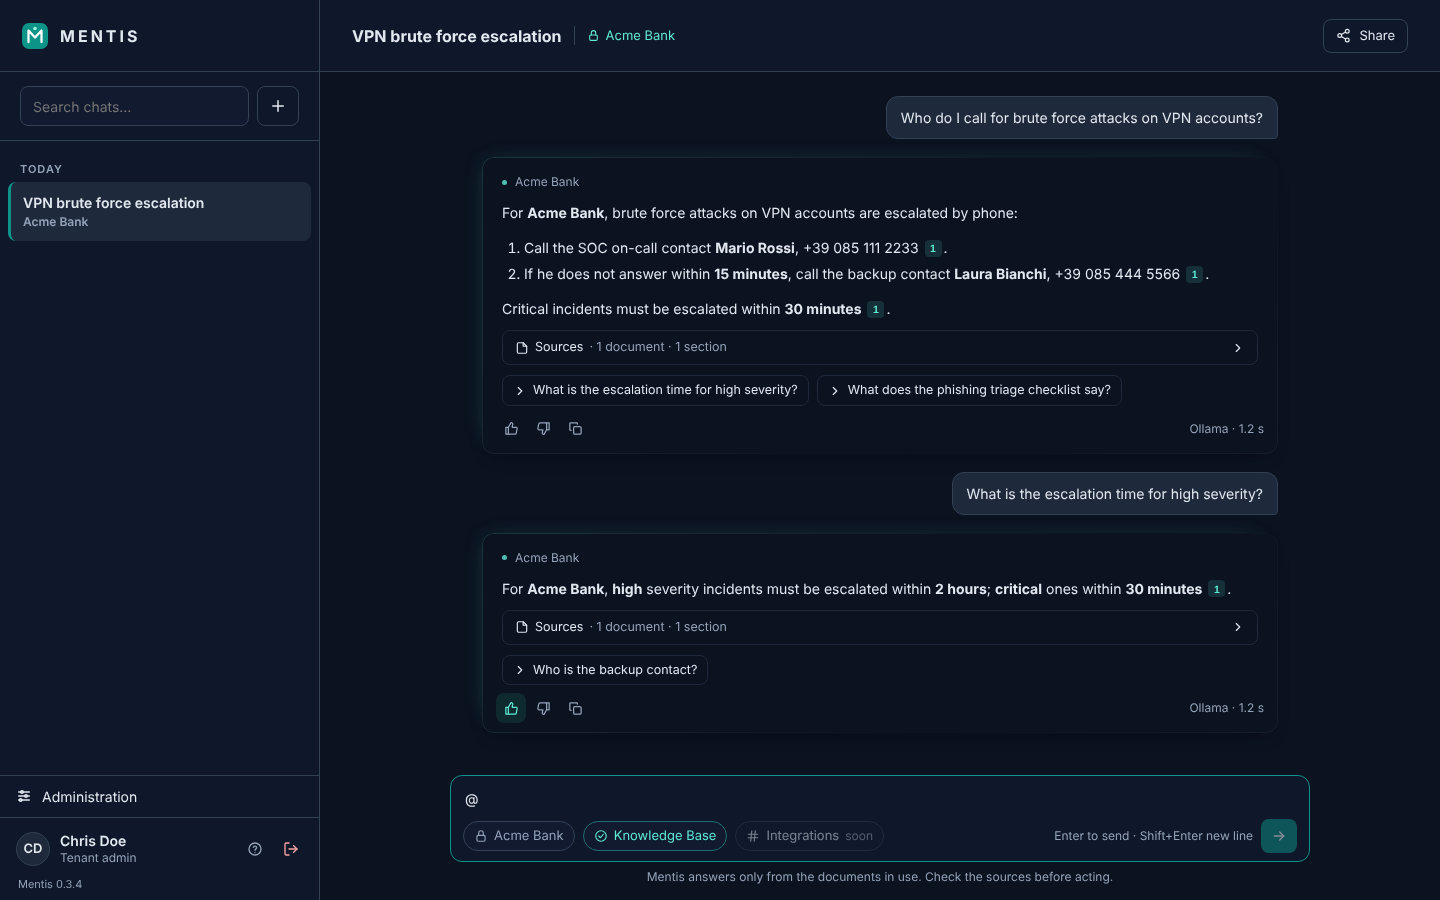
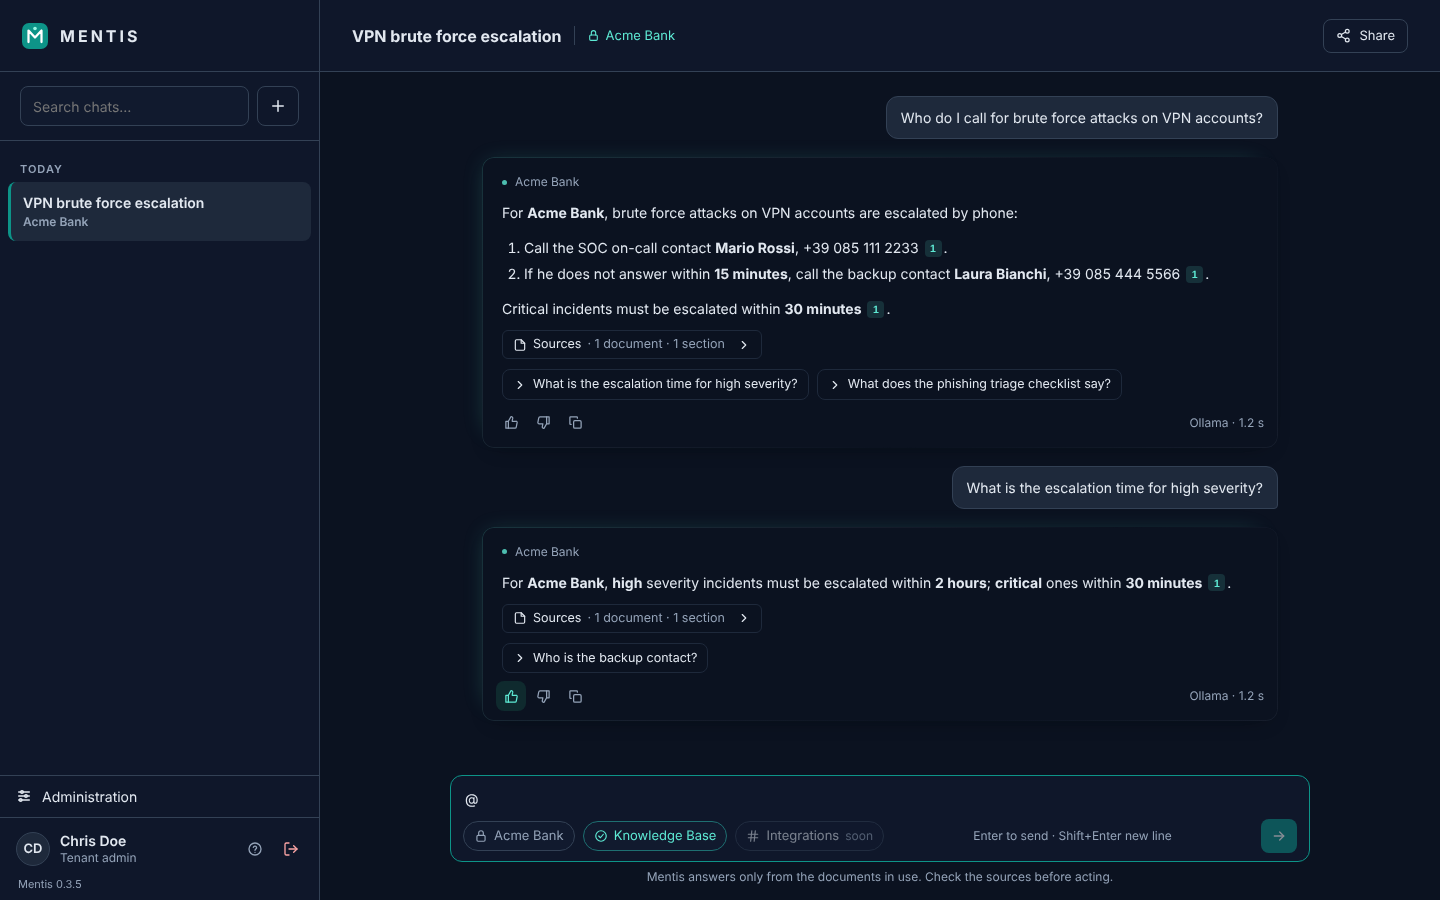
Sources: keep the full-height panel on the right; the Sources line under an answer becomes a small button
Claude-Session: https://claude.ai/code/session_01XxMwfZow8Asn8GhBh79ebo

diff --git a/frontend/src/pages/chat/chat.css b/frontend/src/pages/chat/chat.css
@@ -54,7 +54,7 @@
 .answer-error { display: flex; align-items: center; gap: 10px; border: 1px solid var(--danger); color: var(--danger); border-radius: 8px; padding: 10px 12px; }
 
 .sources { display: flex; flex-direction: column; gap: 6px; }
-.sources-toggle { display: flex; align-items: center; gap: 6px; width: 100%; padding: 7px 12px; border: 1px solid var(--border-soft); border-radius: 8px; background: transparent; color: var(--text); font: inherit; font-size: 12.5px; cursor: pointer; text-align: left; }
+.sources-toggle { display: inline-flex; align-self: flex-start; align-items: center; gap: 6px; width: auto; max-width: 100%; padding: 4px 10px; border: 1px solid var(--border-soft); border-radius: 6px; background: transparent; color: var(--text); font: inherit; font-size: 12.5px; cursor: pointer; text-align: left; }
 .sources-toggle:hover { background: var(--raised); }
 .source-doc-block { border: 1px solid var(--border-soft); border-radius: 8px; padding: 6px 4px 4px; }
 .source-doc-name { display: flex; align-items: center; flex-wrap: wrap; gap: 6px; padding: 0 6px 4px; font-size: 12.5px; }
@@ -135,19 +135,19 @@
 
 /* Sources panel on the right of the chat (reference viewer) */
 .sources-toggle.active { border-color: color-mix(in srgb, var(--accent) 55%, var(--border)); background: var(--raised); }
-.sources-panel { flex: 0 0 380px; align-self: flex-start; max-height: calc(100% - 32px); margin: 16px 16px 16px 0; display: flex; flex-direction: column; min-width: 0;
-  background: var(--surface); border: 1px solid var(--border); border-radius: 12px; box-shadow: 0 12px 32px -16px rgba(0, 0, 0, 0.5); overflow: hidden; }
-.sources-panel-head { display: flex; align-items: center; gap: 10px; padding: 0 8px 0 16px; height: 48px; box-sizing: border-box;
-  border-bottom: 1px solid var(--border-soft); flex: 0 0 auto; }
-.sources-panel-body { overflow-y: auto; padding: 8px 8px 10px; display: flex; flex-direction: column; gap: 4px; }
-.sources-panel .source-doc-block { border: 0; padding: 4px 0 2px; }
-.sources-panel .source-doc-block + .source-doc-block { border-top: 1px solid var(--border-soft); padding-top: 8px; }
-.sources-panel .source-doc-name { padding: 2px 8px 4px; font-size: 13px; }
-.sources-panel .source-row { font-size: 13px; padding: 7px 8px; }
+.sources-panel { flex: 0 0 min(440px, 38vw); height: 100%; display: flex; flex-direction: column; min-width: 0;
+  background: var(--surface); border-left: 1px solid var(--border); }
+.sources-panel-head { display: flex; align-items: center; gap: 10px; padding: 0 16px 0 20px; height: var(--head-h); box-sizing: border-box;
+  border-bottom: 1px solid var(--border); flex: 0 0 auto; }
+.sources-panel-body { flex: 1; overflow-y: auto; padding: 16px; display: flex; flex-direction: column; gap: 12px; }
+.sources-panel .source-doc-block { padding: 8px 6px 6px; }
+.sources-panel .source-doc-name { padding: 2px 8px 8px; font-size: 13px; }
+.sources-panel .source-row { font-size: 13px; padding: 8px; }
 .sources-panel .source-section { flex: 1; }
-.sources-panel .source-text { padding: 2px 12px 10px 30px; font-size: 13px; line-height: 1.6; color: var(--text); }
+.sources-panel .source-text { padding: 4px 12px 12px 32px; font-size: 13px; line-height: 1.6; color: var(--text); }
 @media (max-width: 900px) {
-  .sources-panel { position: fixed; inset: 0; z-index: 60; flex: none; width: 100%; max-height: none; margin: 0; border: 0; border-radius: 0; }
+  .sources-panel { position: fixed; inset: 0; z-index: 60; flex: none; width: 100%; border-left: 0; }
   .sources-panel-head { height: 56px; }
   .answer-card { padding: 14px 14px 8px; }
 }
+.composer-send { margin-left: auto; }

diff --git a/frontend/src/pages/chat/Composer.tsx b/frontend/src/pages/chat/Composer.tsx
@@ -122,7 +122,7 @@ export function Composer({ scopes, scope, locked, disabled, disabledReason, onSc
             <Icon name="hash" size={14} />Integrations<span className="muted small">soon</span>
           </button>
           <span className="spacer muted small composer-hint">Enter to send · Shift+Enter new line</span>
-          <button type="button" className="btn btn-primary btn-sm" aria-label="Send" disabled={disabled || !text.replace(AT, "$1").trim()} onClick={send}>
+          <button type="button" className="btn btn-primary btn-sm composer-send" aria-label="Send" disabled={disabled || !text.replace(AT, "$1").trim()} onClick={send}>
             <Icon name="send" />
           </button>
         </div>

diff --git a/frontend/src/help/analyst/02-chat.md b/frontend/src/help/analyst/02-chat.md
@@ -17,8 +17,8 @@ Next to the customer, the **Knowledge Base** chip is on by default (✓). To ans
 ## Read the answer
 
 - Each answer sits in a light frame. The small line above it says **which customer** it refers to. With All customers, an answer covering several customers names each one.
-- Every statement ends with a number like **1**: click it to open the **Sources** card on the right, on that passage.
-- The **Sources** bar under the answer says how many documents and sections were used; click it to open the card. It lists each document (with its version) and the cited sections; click a section to read the exact passage. The customer is shown only when the answer mixes customers or uses the General Knowledge Base. Close it with **×** or **Esc**. On a phone it fills the screen.
+- Every statement ends with a number like **1**: click it to open the **Sources** panel on the right, on that passage.
+- The small **Sources** button under the answer says how many documents and sections were used; click it to open the panel. It lists each document (with its version) and the cited sections; click a section to read the exact passage. The customer is shown only when the answer mixes customers or uses the General Knowledge Base. Close it with **×** or **Esc**. On a phone it fills the screen.
 - A customer's own procedure wins over the General Knowledge Base; when they differ, the answer says so.
 - **Not found**: if the documentation in use does not cover the question, Mentis says so and does not guess. Ask your tenant admin to add the missing procedure.
 - Under the answer: up to three **suggested questions** (one click asks them), thumbs up / thumbs down buttons to rate the answer, copy, and the name of the AI model that wrote it.

diff --git a/docs/DESIGN.md b/docs/DESIGN.md
@@ -68,7 +68,7 @@ One chat = one customer scope, locked at the first message; integrations are cho
 - If the documentation does not cover the question: "Not found in <customer> documentation", never an invented procedure. With no passage above the score threshold the LLM is not called at all; the model can also flag not-found itself.
 - Passages go to the LLM as numbered, untrusted data blocks labelled with their customer; citation numbers not among them are dropped.
 - Each answer sits in a light frame (hairline fading from the top-left corner, faint teal trail, very light shadow); its customer is a small text line above it, not a badge; the chat header shows the customer as quiet text after the title.
-- Sources under the answer are one compact line ("Sources · 1 document · 8 sections"). A click opens the **Sources card on the right** of the chat, sized to its content (full screen on a phone): one block per document (version) with its cited sections in number order. The customer badge appears only when the answer mixes customers or uses General. A click on [n] opens the panel on that section.
+- Sources under the answer are one small button ("Sources · 1 document · 8 sections"). A click opens the **Sources panel on the right** of the chat (full screen on a phone): one block per document (version) with its cited sections in number order. The customer badge appears only when the answer mixes customers or uses General. A click on [n] opens the panel on that section.
 - The last turns of the chat are sent as context; short follow-ups also reuse the previous question for retrieval.
 
 **Suggested follow-ups**

diff --git a/CHANGELOG.md b/CHANGELOG.md
@@ -10,8 +10,7 @@ Format: [Keep a Changelog](https://keepachangelog.com/en/1.1.0/). Versions follo
 
 ### Changed
 - **Documents as a document browser**: the list on the left (search, All / In use / To review, documents needing attention grouped first with a quiet badge) and the selected document on the right: state, Approve/Reject or Retry when needed, **New version**, Download, a ⋯ menu (Rename, Versions, Delete), and the tabs Preview, Text read, Versions, Test a question; details and recent versions on the right on wide screens. On a phone: list, then the document with a back button.
-- **Chat answers** sit in a light frame (hairline fading from the top-left corner, faint teal trail, very light shadow); the customer is a small text line, no longer a rounded badge, also in the chat header. Lighter citation numbers, follow-up chips and Sources bar.
-- **Sources** open in a card on the right sized to its content, instead of a full-height panel.
+- **Chat answers** sit in a light frame (hairline fading from the top-left corner, faint teal trail, very light shadow); the customer is a small text line, no longer a rounded badge, also in the chat header. Lighter citation numbers and follow-up chips; the Sources line under the answer is now a small button (only as wide as its text) that opens the panel on the right.
 
 ### Added
 - **New version** of a document accepts any file name of the same type (`document_id` on upload).

diff --git a/docs/releases/v0.3.5.md b/docs/releases/v0.3.5.md
@@ -4,7 +4,7 @@
 
 - **Documents as a document browser**: the list on the left (search, All / In use / To review, problems grouped on top), the selected document on the right with its actions (Approve, Retry, New version, Download, ⋯ for Rename and Delete) and the tabs Preview, Text read, Versions, Test a question.
 - **New version** of a document accepts a file with any name (same type).
-- **Chat**: answers in a light frame, the customer as small text instead of a rounded badge; Sources in a compact card on the right.
+- **Chat**: answers in a light frame, the customer as small text instead of a rounded badge; the Sources line under the answer is now a small button.
 - **Backup fixed**: `backup.sh` no longer stops with "No such image" after rebuilds.
 - **Small servers**: `MENTIS_EMBEDDING_BATCH_SIZE` in `.env` now works (4 = less memory for the embedding service). Plan at least 8 GB RAM, or add swap.
 
